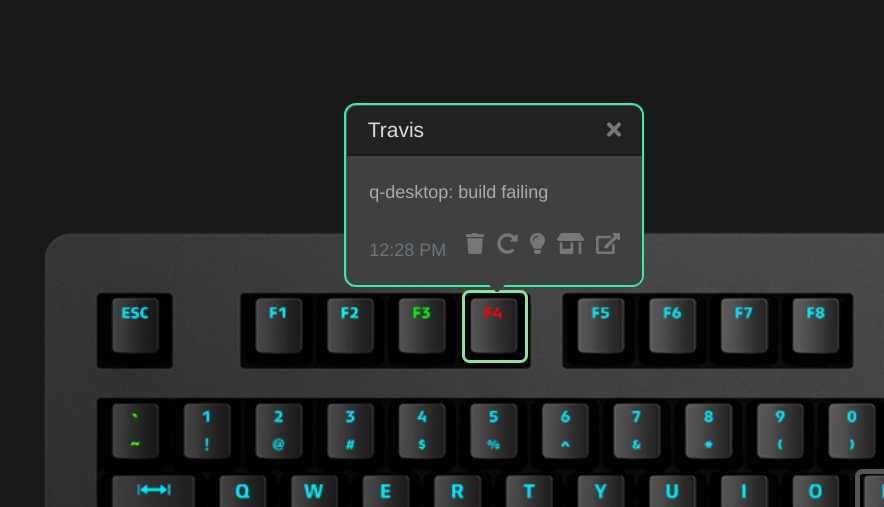
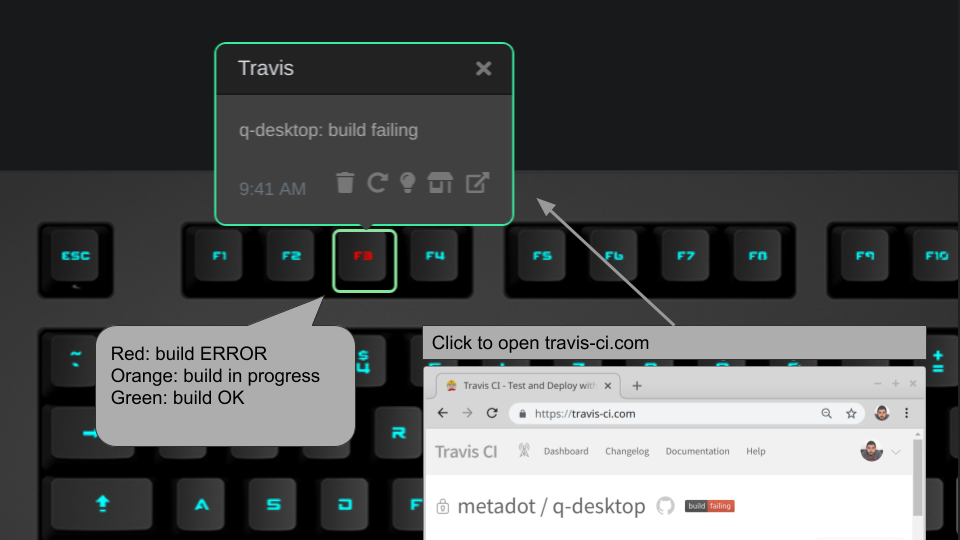
updated readme

diff --git a/README.md b/README.md
@@ -1,12 +1,13 @@
 # Q Applet: Travis Build Info
 
-Get Travis build status alerts directly on a Das Keyboard Q keyboard. Requires a Travis account and the token linked to this account.
+Get Travis build status alerts directly on a Das Keyboard Q keyboard. Requires a Travis account
+and the token linked to this account: [https://travis-ci.com/](https://travis-ci.com/).
 
 [GitHub repository](https://github.com/daskeyboard/daskeyboard-applet--travis-build-info)
 
 ## Example
 
-State of one key when a build is failing
+The F3 key in the image below is red because the build of the software `q-desktop` is failing.
 ![Travis on a Das Keybaord Q](assets/image.png "Travis")
 
 ## Changelog
@@ -18,7 +19,7 @@ State of one key when a build is failing
 Requires a Das Keyboard Q Series: www.daskeyboard.com
 
 Installation, configuration and uninstallation of applets is done within
-the Q Desktop application (https://www.daskeyboard.com/q)
+the Q Desktop application [https://www.daskeyboard.com](https://www.daskeyboard.com/q).
 
 ## Running tests
 

diff --git a/README_END_USER.md b/README_END_USER.md
@@ -1,9 +1,9 @@
 # Travis Build Info
 
-Get Travis build status alerts directly on a Das Keyboard Q keyboard. Requires a Travis account and the token linked to this account.
-
+Get Travis build status alerts directly on a Das Keyboard Q keyboard. Requires a Travis account
+and the token linked to this account: [https://travis-ci.com/](https://travis-ci.com/).
 
 ## Example
 
-State of one key when a build is failing
+The F3 key in the image below is red because the build of the software `q-desktop` is failing.
 ![Travis on a Das Keybaord Q](assets/image.png "Travis")
